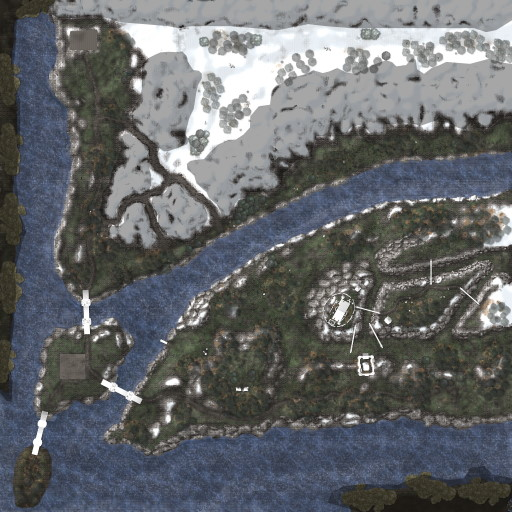
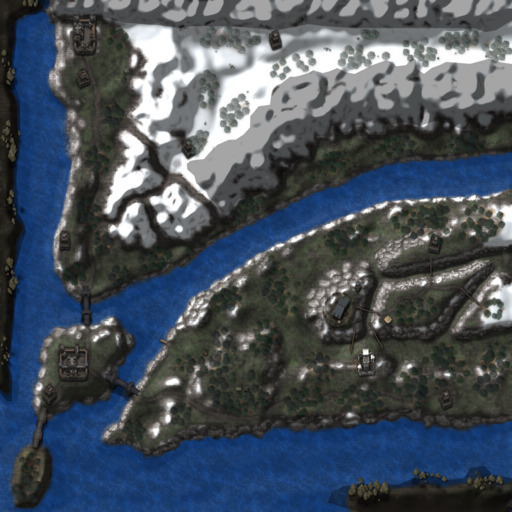
feat(map): render the terrain at 2x so zone tiles keep their full resolution
A zone occupies a 256x256 slot in map coordinates while its tile is
512x512, so the terrain bitmap was downscaled. Rasterize it at 2x and
stretch it back over the same coordinate rect; keeps, markers and the
heatmap stay in the unscaled space. Updates the zone tile images.

diff --git a/DAoCLogWatcher.UI/Services/ZoneMapService.cs b/DAoCLogWatcher.UI/Services/ZoneMapService.cs
@@ -25,6 +25,9 @@ public class ZoneMapService
 	private const double CELL_W = 1408.0 / GRID_W;
 	private const double CELL_H = 1536.0 / GRID_H;
 
+	/// <summary>Terrain oversampling: 2 makes each 256x256 zone slot hold its full 512x512 tile.</summary>
+	private const int TERRAIN_SCALE = 2;
+
 	private SKBitmap? terrain;
 #pragma warning disable CS0169
 	private SKBitmap? legendBitmap; // used in commented-out legacy rendering block
@@ -995,7 +998,10 @@ public class ZoneMapService
 
 	private static SKBitmap BuildTerrainBitmap(FrontierMapData map)
 	{
-		var bitmap = new SKBitmap(1408, 1536, SKColorType.Rgb888x, SKAlphaType.Opaque);
+		// A zone occupies a 256x256 slot in map coordinates while its tile is 512x512, so the terrain
+		// is rasterized at TERRAIN_SCALE and the plot stretches it back over the same CoordinateRect.
+		// Every other coordinate (keeps, markers, the heatmap) stays in the unscaled 1408x1536 space.
+		var bitmap = new SKBitmap(1408 * TERRAIN_SCALE, 1536 * TERRAIN_SCALE, SKColorType.Rgb888x, SKAlphaType.Opaque);
 		using var canvas = new SKCanvas(bitmap);
 		canvas.Clear(new SKColor(30, 30, 30));
 
@@ -1006,7 +1012,8 @@ public class ZoneMapService
 			{
 				using var stream = AssetLoader.Open(uri);
 				using var zoneImg = SKBitmap.Decode(stream);
-				var dst = new SKRect(zone.PixelBounds!.X, zone.PixelBounds.Y, zone.PixelBounds.X + zone.PixelBounds.Width, zone.PixelBounds.Y + zone.PixelBounds.Height);
+				var bounds = zone.PixelBounds!;
+				var dst = new SKRect(bounds.X * TERRAIN_SCALE, bounds.Y * TERRAIN_SCALE, (bounds.X + bounds.Width) * TERRAIN_SCALE, (bounds.Y + bounds.Height) * TERRAIN_SCALE);
 				canvas.DrawBitmap(zoneImg, dst);
 			}
 			catch
